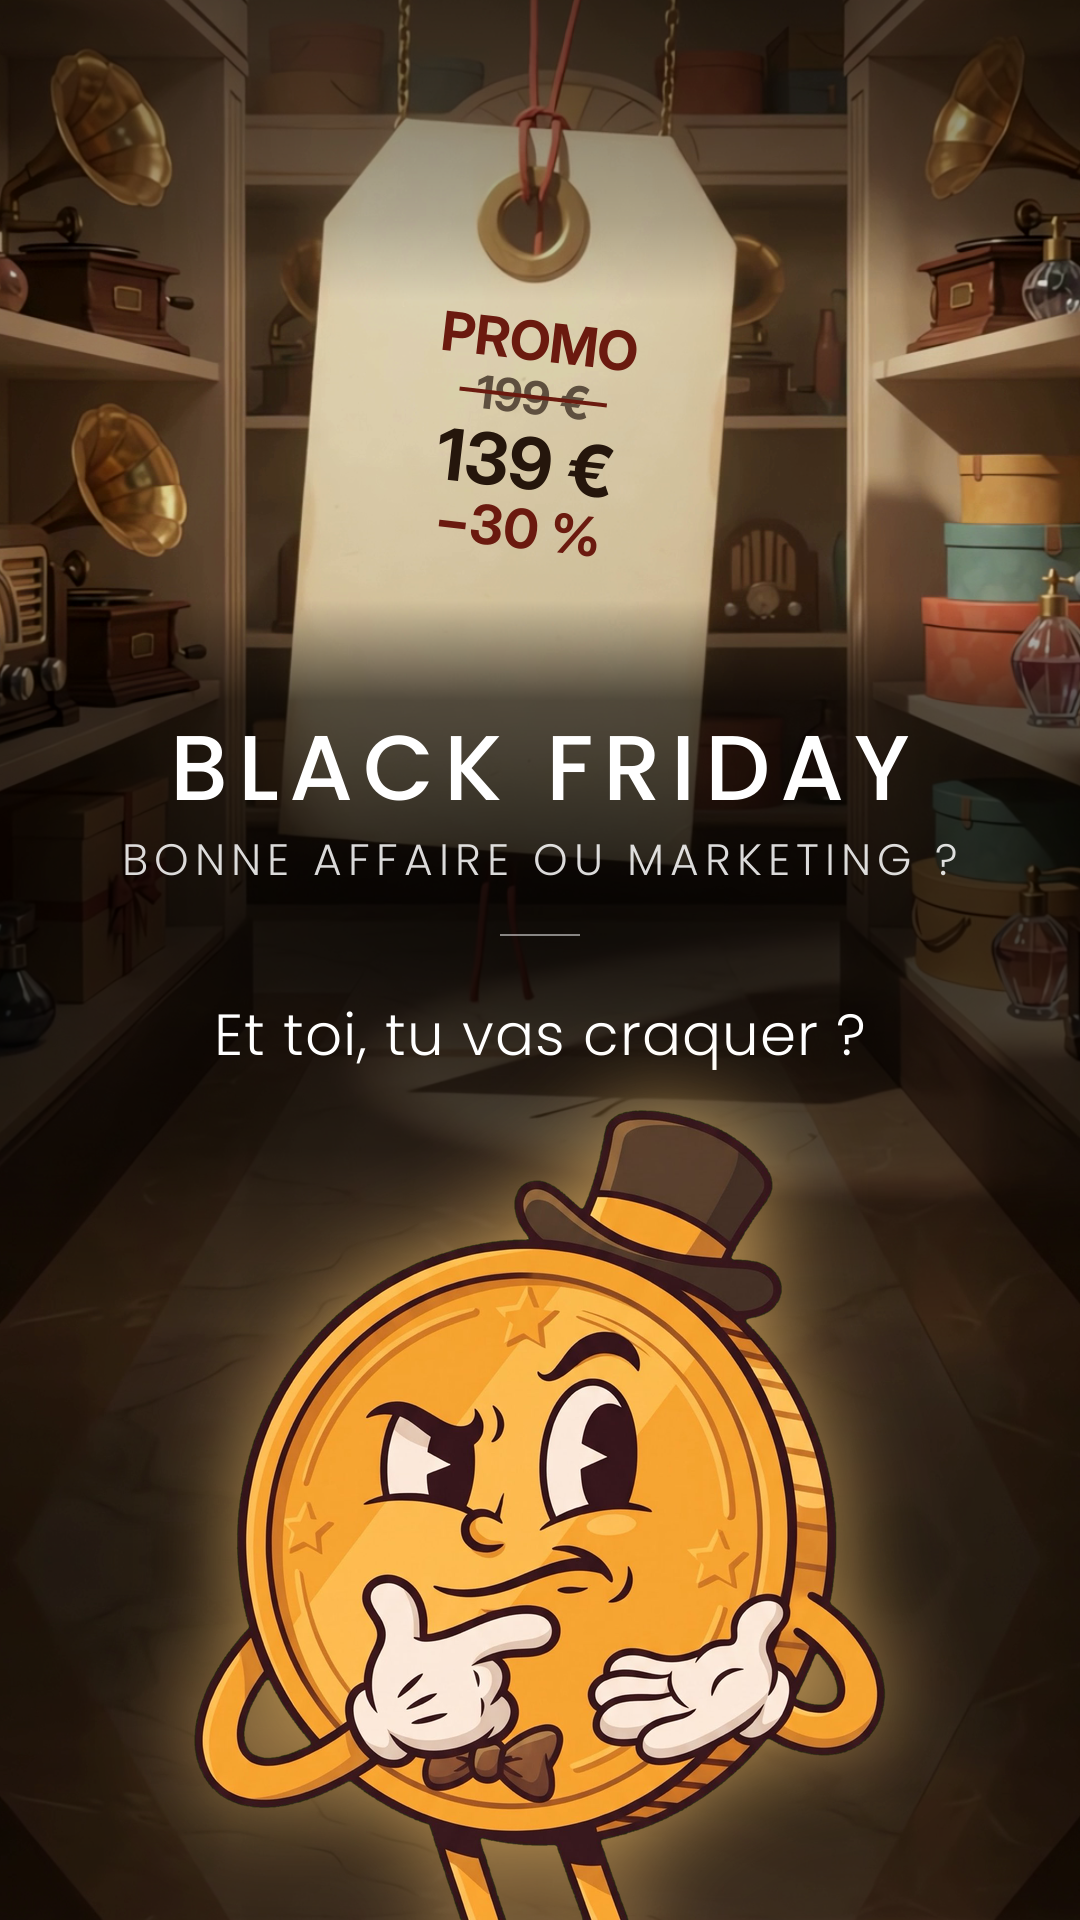
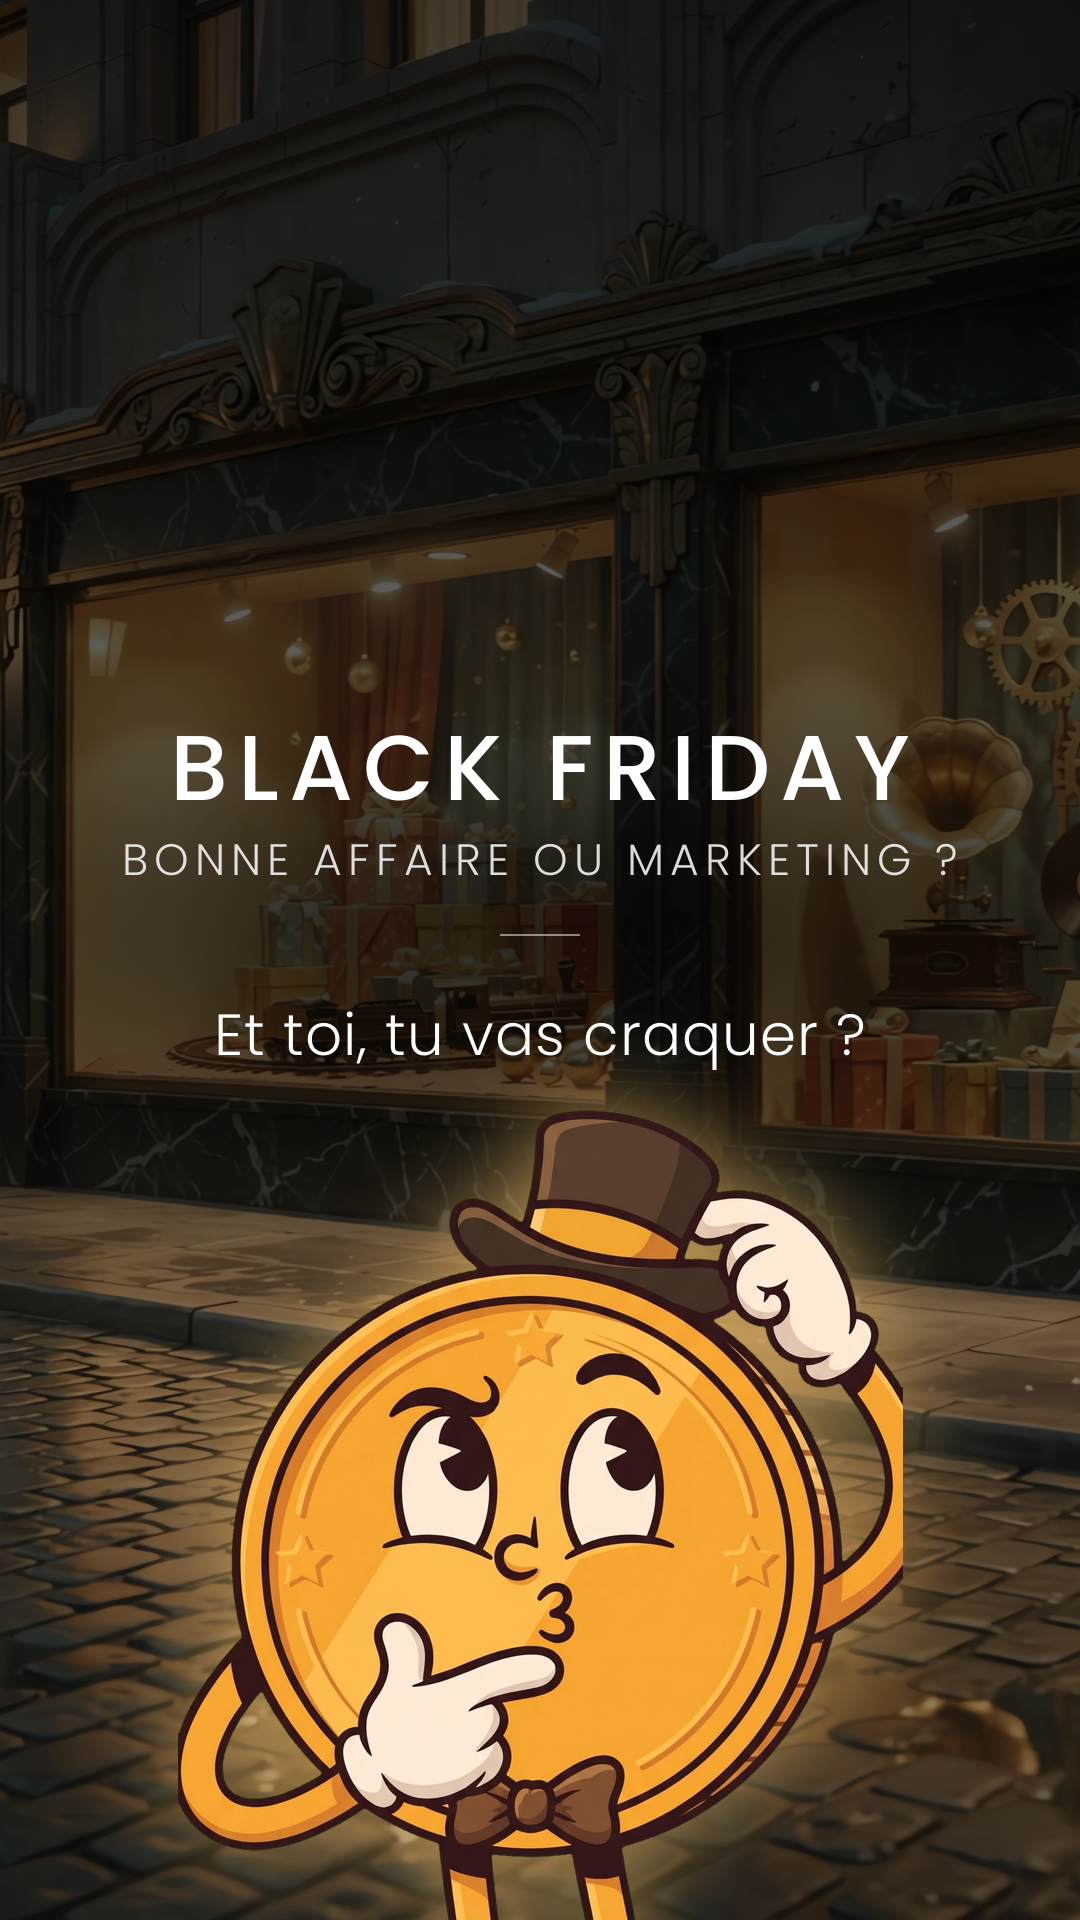
Black Friday : couverture sur le fond des vitrines, gros plan de Mister Coin qui réfléchit (lib/gros_plan.py)
Claude-Session: https://claude.ai/code/session_01WbC6ATVQ9ekwYf3mZ5UyiW

diff --git a/episodes/2026-11-25_black_friday/couverture.py b/episodes/2026-11-25_black_friday/couverture.py
@@ -1,5 +1,5 @@
-"""Couverture du Black Friday (style maison, lib/cards_lib.py) : gros plan du rayon et de l'étiquette géante « PROMO 199 € barré, 139 €, −30 % » (image de la vidéo), titre « BLACK FRIDAY »,
-sous-titre « BONNE AFFAIRE OU MARKETING ? », question « Et toi, tu vas craquer ? », gros plan de Mister Coin sceptique en bas (lib/gros_plan.py)."""
+"""Couverture du Black Friday (style maison, lib/cards_lib.py) : vitrines du grand magasin au crépuscule assombries, titre « BLACK FRIDAY »,
+sous-titre « BONNE AFFAIRE OU MARKETING ? », question « Et toi, tu vas craquer ? », gros plan de Mister Coin qui réfléchit en bas (lib/gros_plan.py)."""
 import cairo, numpy as np, sys, os, subprocess
 HERE = os.path.dirname(os.path.abspath(__file__)); ROOT = os.path.abspath(os.path.join(HERE, '..', '..'))
 sys.path.insert(0, f'{ROOT}/lib'); sys.path.insert(0, f'{ROOT}/mister_coin')
@@ -12,15 +12,13 @@ def still(src, n, dst):
         subprocess.run(['ffmpeg', '-loglevel', 'error', '-y', '-i', src, '-vf', f'select=eq(n\\,{n})', '-vframes', '1', dst], check=True)
     return Image.open(dst).convert('RGB')
 def bg(c):
-    sys.path.insert(0, HERE); import video_col as VCOL
-    arr = VCOL.raw_bg(TC).astype(np.float32)                                                   # décor 60 i/s + inscription de l'étiquette, sans sous-titres ni Mister Coin
-    S = 360; arr = np.concatenate([arr[S:], arr[::-1][:S]], 0)                                  # remonté : l'étiquette au-dessus du titre (jamais de texte sur du texte)
-    y = np.arange(H)[:, None, None]
-    dark = np.interp(y, [0, 220, 300, 600, 700, 1150, 1320, H], [.55, .3, .12, .12, .62, .62, .3, .45])
+    _sr = f'{HERE}/decors/sr/decor_vitrine.mp4'; d = still(_sr if os.path.exists(_sr) else f'{HERE}/decors/decor_vitrine.mp4', 120, f'{TMP}/vitrine_couv{"_sr" if os.path.exists(_sr) else ""}.png').resize((W, H), Image.LANCZOS)
+    arr = np.asarray(d.convert('RGB')).astype(np.float32); y = np.arange(H)[:, None, None]
+    dark = np.interp(y, [0, 650, 1120, 1320, H], [.72, .62, .58, .25, .4])
     xs = np.arange(W)[None, :, None]; band = np.exp(-((y-930)/170.0)**2)*np.exp(-((xs-540)/520.0)**2); dark = np.clip(dark+.22*band, 0, .9)
     arr *= 1-dark; b = Image.fromarray(arr.astype(np.uint8)).convert('RGBA').tobytes('raw', 'BGRa')
     src = cairo.ImageSurface.create_for_data(bytearray(b), cairo.FORMAT_ARGB32, W, H); c.set_source_surface(src); c.paint()
-TC = float(os.environ.get('TC', 42.4))
+EXPR = os.environ.get('EXPR', 'reflechit')
 cards.bg = bg
 _put = cards.put
 def _q(c, s_, y, fam, size, *a, **k):
@@ -30,5 +28,5 @@ cards.put = _q
 import veo_coin as VC
 path = f'{HERE}/couverture.png'; cards.card("BLACK FRIDAY", False, path, sub=("BONNE AFFAIRE OU MARKETING ?",))
 im = Image.open(path).convert('RGBA')
-import gros_plan; gros_plan.coller(im, 'sceptique')                                            # gros plan maison : « promesse trop belle »
+import gros_plan; gros_plan.coller(im, EXPR)                                                   # gros plan maison (lib/gros_plan.py)
 im.convert('RGB').save(path); print('ok')
